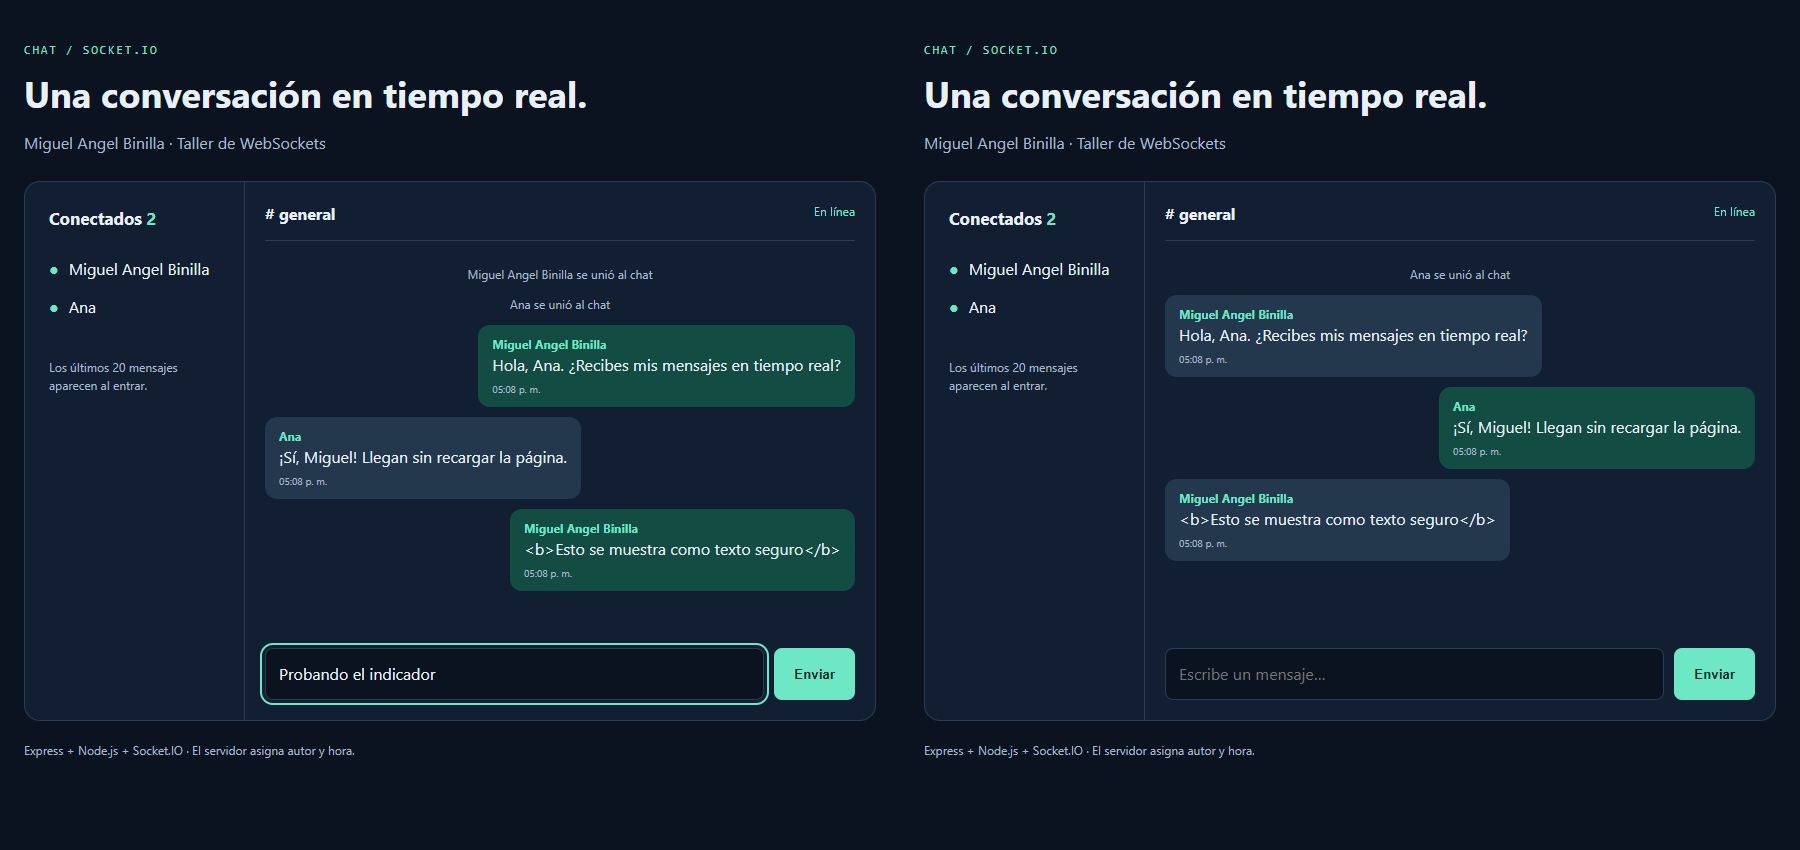
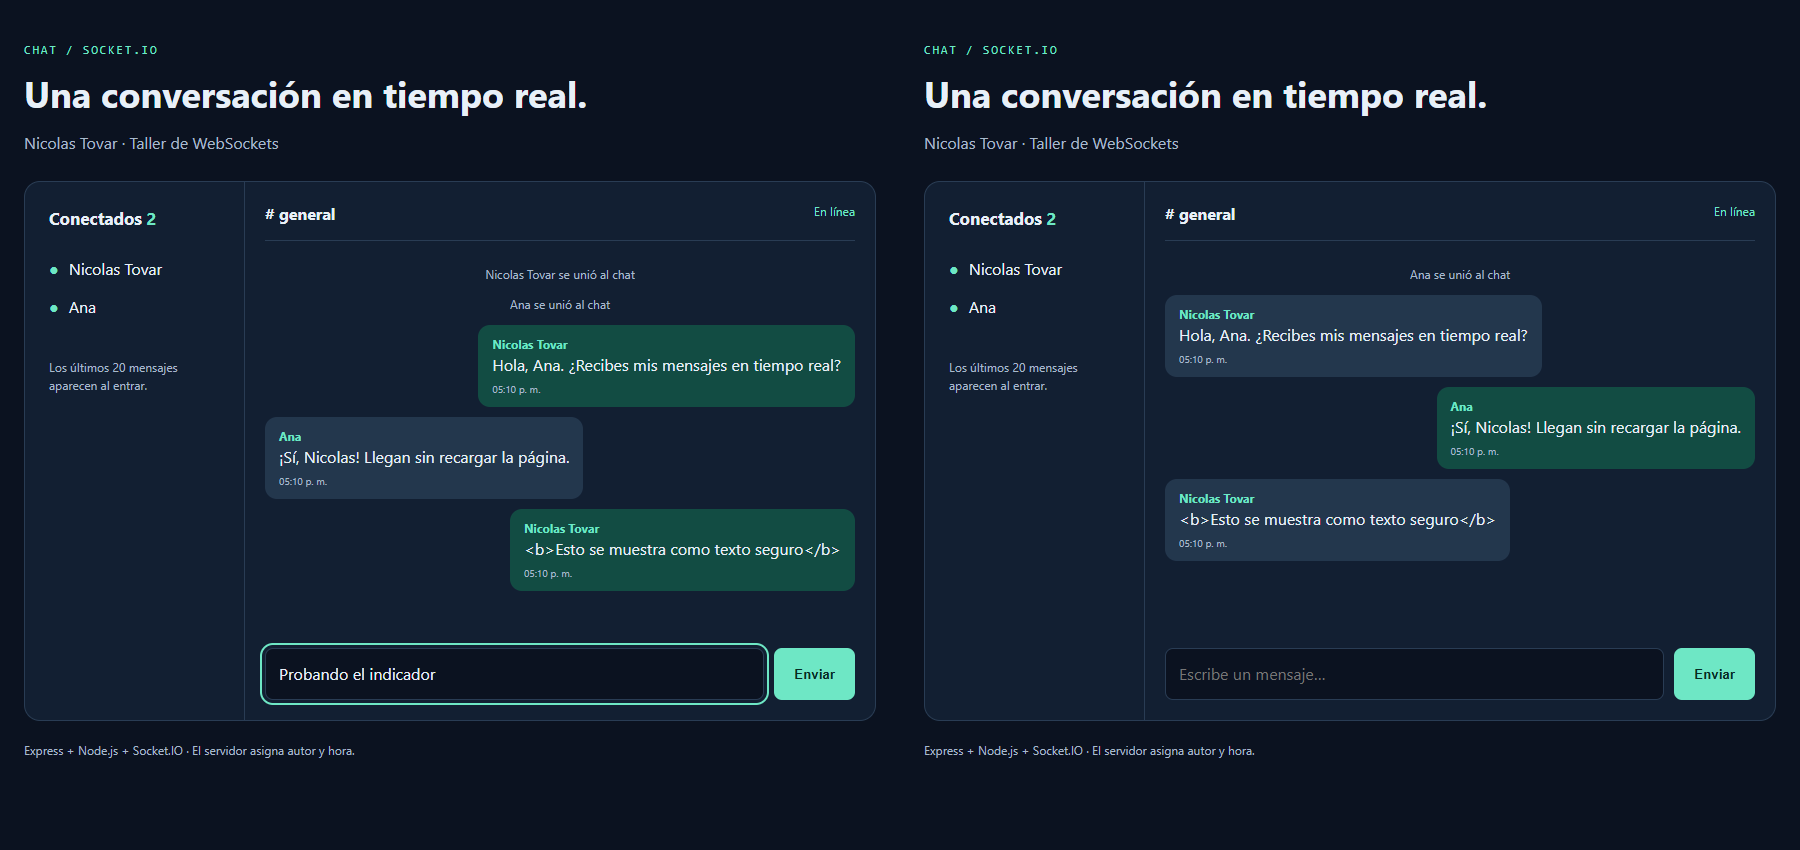
Corregir estudiante a Nicolas Tovar e incluir a Miguel Angel Binilla en el grupo

diff --git a/public/index.html b/public/index.html
@@ -3,11 +3,11 @@
 <head>
   <meta charset="utf-8">
   <meta name="viewport" content="width=device-width,initial-scale=1">
-  <title>Chat — Miguel Angel Binilla</title>
+  <title>Chat — Nicolas Tovar</title>
   <link rel="stylesheet" href="styles.css">
 </head>
 <body>
-  <header><span class="marca">CHAT / SOCKET.IO</span><h1>Una conversación en tiempo real.</h1><p>Miguel Angel Binilla · Taller de WebSockets</p></header>
+  <header><span class="marca">CHAT / SOCKET.IO</span><h1>Una conversación en tiempo real.</h1><p>Nicolas Tovar · Taller de WebSockets</p></header>
   <section id="login" class="card">
     <h2>Entra a conversar</h2>
     <form id="form-login"><label for="input-nombre">Tu nombre</label><div class="fila"><input id="input-nombre" maxlength="30" autocomplete="nickname" required placeholder="¿Cómo te llamas?"><button>Entrar</button></div></form>

diff --git a/README.md b/README.md
@@ -1,6 +1,7 @@
 # Chat en tiempo real con Socket.IO
 
-**Estudiante:** Miguel Angel Binilla  
+**Estudiante:** Nicolas Tovar  
+**Integrante del grupo:** Miguel Angel Binilla  
 **Código estudiantil:** pendiente de completar por el estudiante  
 **Materia / grupo:** pendiente de completar por el estudiante  
 **Fecha de preparación:** 29/10/2026  
@@ -60,7 +61,7 @@ Además, el cliente vuelve a registrar su nombre al reconectarse y limita los av
 
 Dos clientes reales del chat, con nombres diferentes, lista de conectados y mensajes en ambas direcciones:
 
-![Miguel Angel Binilla y Ana chateando](capturas/chat.png)
+![Nicolas Tovar y Ana chateando](capturas/chat.png)
 
 ## 6. Lo que más me costó
 
